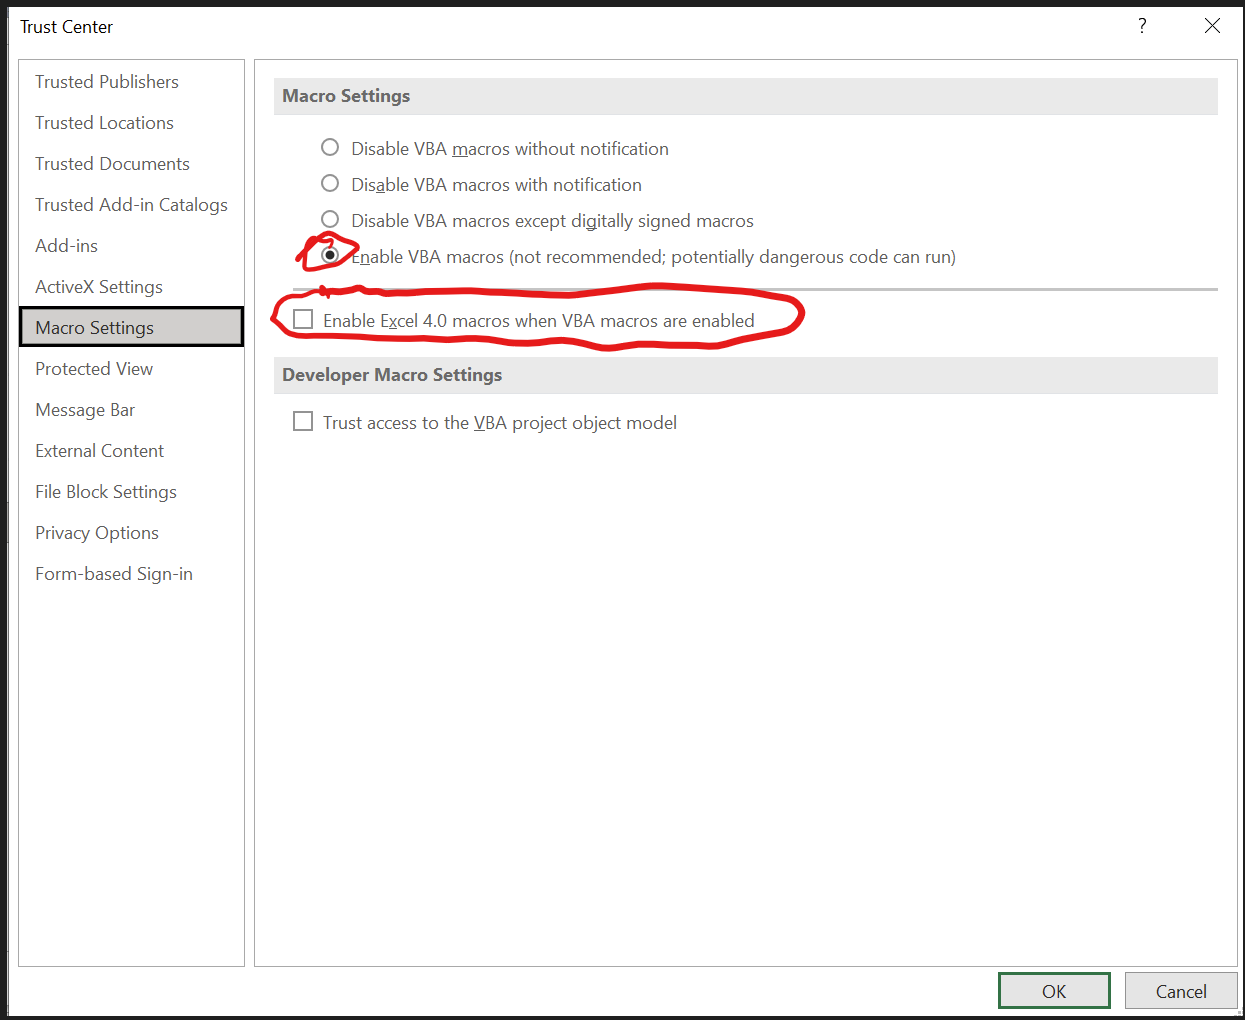
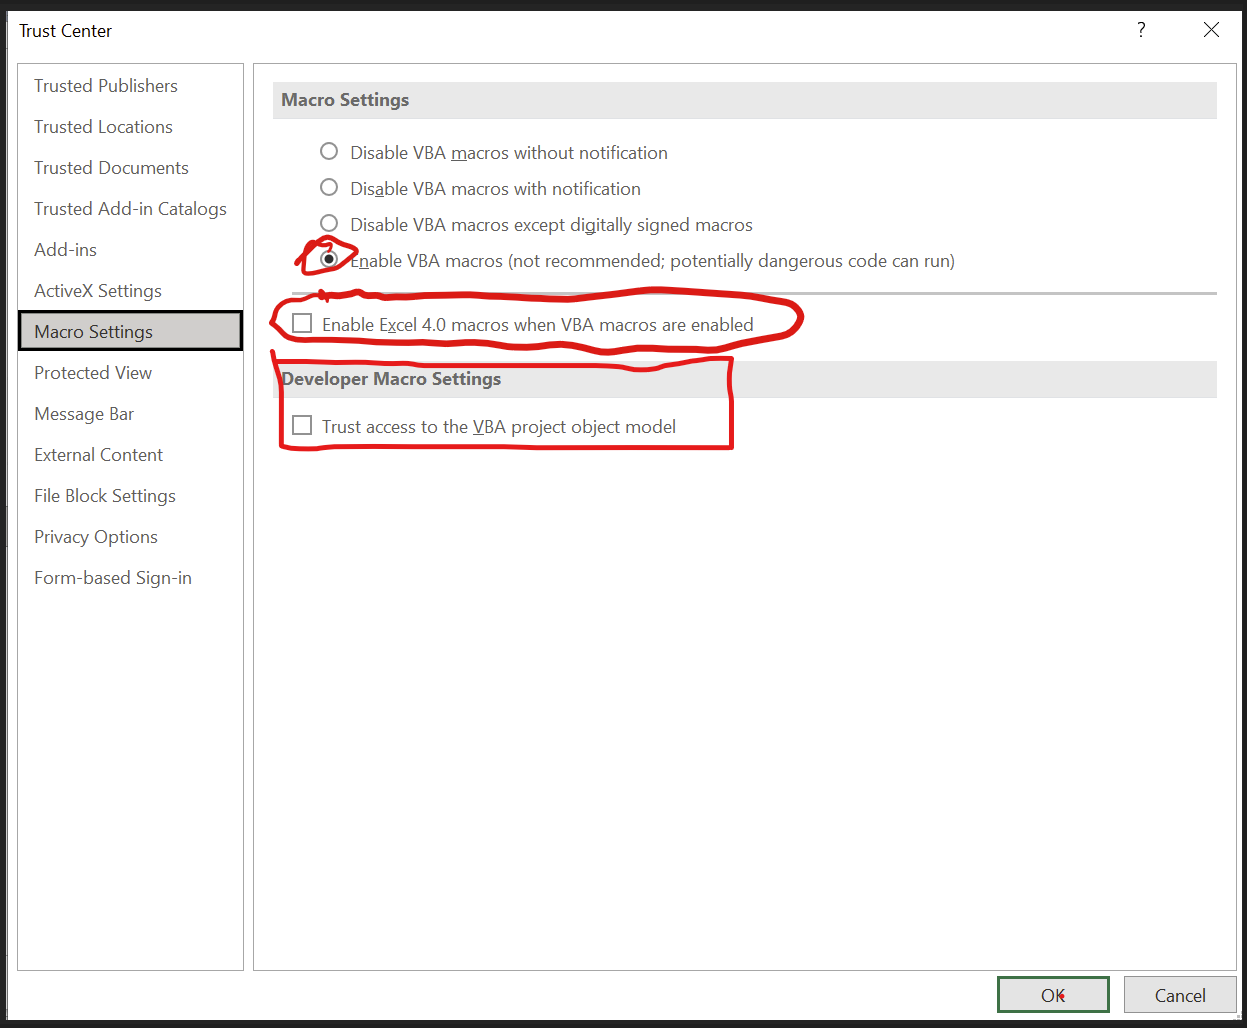
re

Changed region(s): [[0.0, 0.0, 1.0, 1.0]]

diff --git a/README.md b/README.md
@@ -17,7 +17,7 @@ The main idea of our project is to automate Financial Comparable Analysis for an
 
     1. Download required libraries to use selenium, aspose, glob, shutil, time, os, and xlwings.
     2. In Excel settings, enable VBA macros and trust access to the VBA project object model.
-       1. File > Options > Trust Center > Trust Center Settings > Macro Settings [Selected ]
+       1. File > Options > Trust Center > Trust Center Settings > Macro Settings [Select "Trust Access to the VBA project object model" and "EnableVBA Macros"]
     3. Fork repository to local computer and ensure folder path is correctly formatted.
     4. Run Final_Production.py - Enter Babson Email and Password and List of Companies to Analyze.
     5. Wait for code to run - You will be prompted when it is done. The analysis will be added
